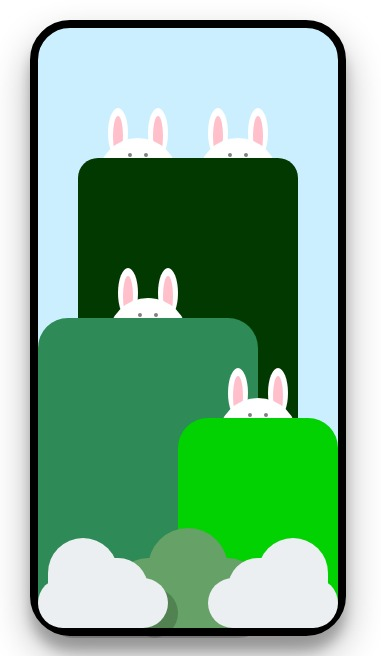
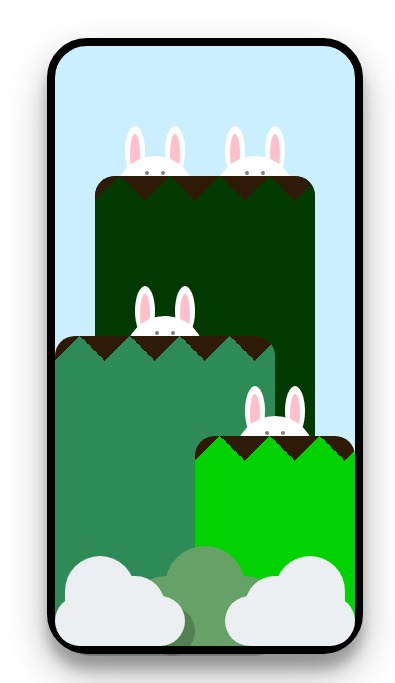
Update readme & walls

Changed region(s): [[0.0577, 0.0305, 0.9239, 1.0]]

diff --git a/css/bunny.css b/css/bunny.css
@@ -38,6 +38,23 @@
     bottom: 0;
     border-radius: 20px;
 }
+
+.wall1 {
+    width: 100%;
+    position: absolute;
+    top: 0;
+    height: 50px;
+    border-radius: 20px;
+    --stripe:#023900;
+    --bg:   #2e1a06;
+    background: linear-gradient(135deg, var(--bg) 25%, transparent 25%) 0px 0,
+        linear-gradient(225deg, var(--bg) 25%, transparent 25%) 0px 0;
+    background-size: 50px 50px;
+    background-color: var(--stripe);
+}
+
+
+
 .layer-4{
     position: absolute;
     z-index: 4;
@@ -58,6 +75,22 @@
     bottom: 0;
     border-radius: 30px;
 }
+
+.wall2 {
+    width: 100%;
+    position: absolute;
+    top: 0;
+    height: 50px;
+    border-radius: 20px;
+    --stripe:#2e8a57;
+    --bg:   #2e1a06;
+    background: 
+        linear-gradient(135deg, var(--bg) 25%, transparent 25%) 0px 0,
+        linear-gradient(225deg, var(--bg) 25%, transparent 25%) 0px 0;
+    background-size: 50px 50px;
+    background-color: var(--stripe);
+}
+
 .layer-6{
     position: absolute;
     z-index: 6;
@@ -77,6 +110,20 @@
     width: 160px;
     bottom: 0;
     border-radius: 30px;
+}
+
+.wall3 {
+    width: 100%;
+    position: absolute;
+    top: 0;
+    height: 50px;
+    border-radius: 20px;
+    --stripe:#02d102;
+    --bg:   #2e1a06;
+    background: linear-gradient(135deg, var(--bg) 25%, transparent 25%) 0px 0,
+        linear-gradient(225deg, var(--bg) 25%, transparent 25%) 0px 0;
+    background-size: 50px 50px;
+    background-color: var(--stripe);
 }
 
 /*Left Cloud*/

diff --git a/html/bunny.html b/html/bunny.html
@@ -42,7 +42,9 @@
             </div>
         </div>
         <!--Wall 1-->
-        <div class="layer-3"></div>
+        <div class="layer-3">
+            <div class="wall1"></div>
+        </div>
         <!--Bunny 3-->
         <div class="layer-4">
             <div class="left-ear--outer"></div>
@@ -55,7 +57,9 @@
             </div>
         </div>
         <!--Wall 2-->
-        <div class="layer-5"></div>
+        <div class="layer-5">
+            <div class="wall2"></div>
+        </div>
         <!--Bunny 4-->
         <div class="layer-6">
             <div class="left-ear--outer"></div>
@@ -67,7 +71,9 @@
                 <div class="head__eye head__eye--right"></div>
             </div>
         </div>
-        <div class="layer-7"></div>
+        <div class="layer-7">
+            <div class="wall3"></div>
+        </div>
         <div class="cloudCenter"></div>
         <div class="cloudLeft"></div>
         <div class="cloudRight"></div>
